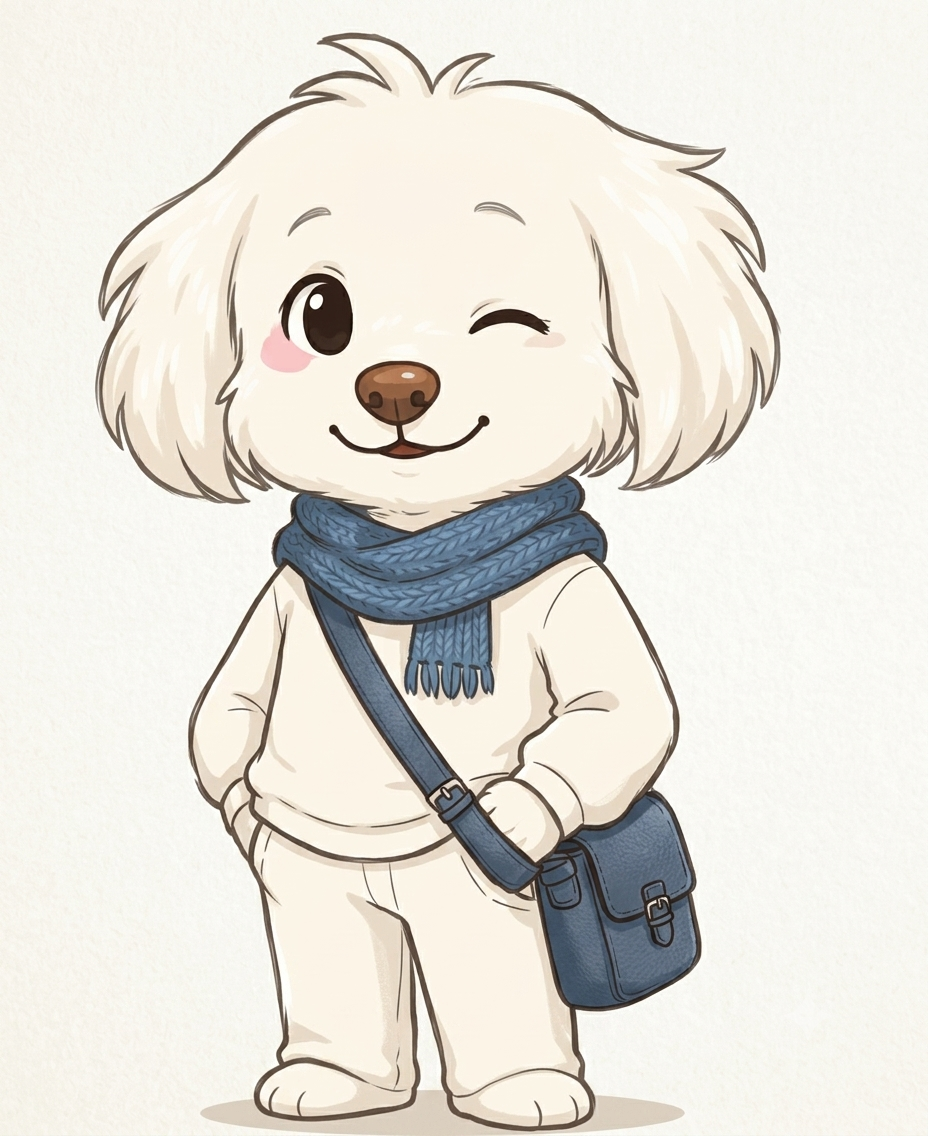
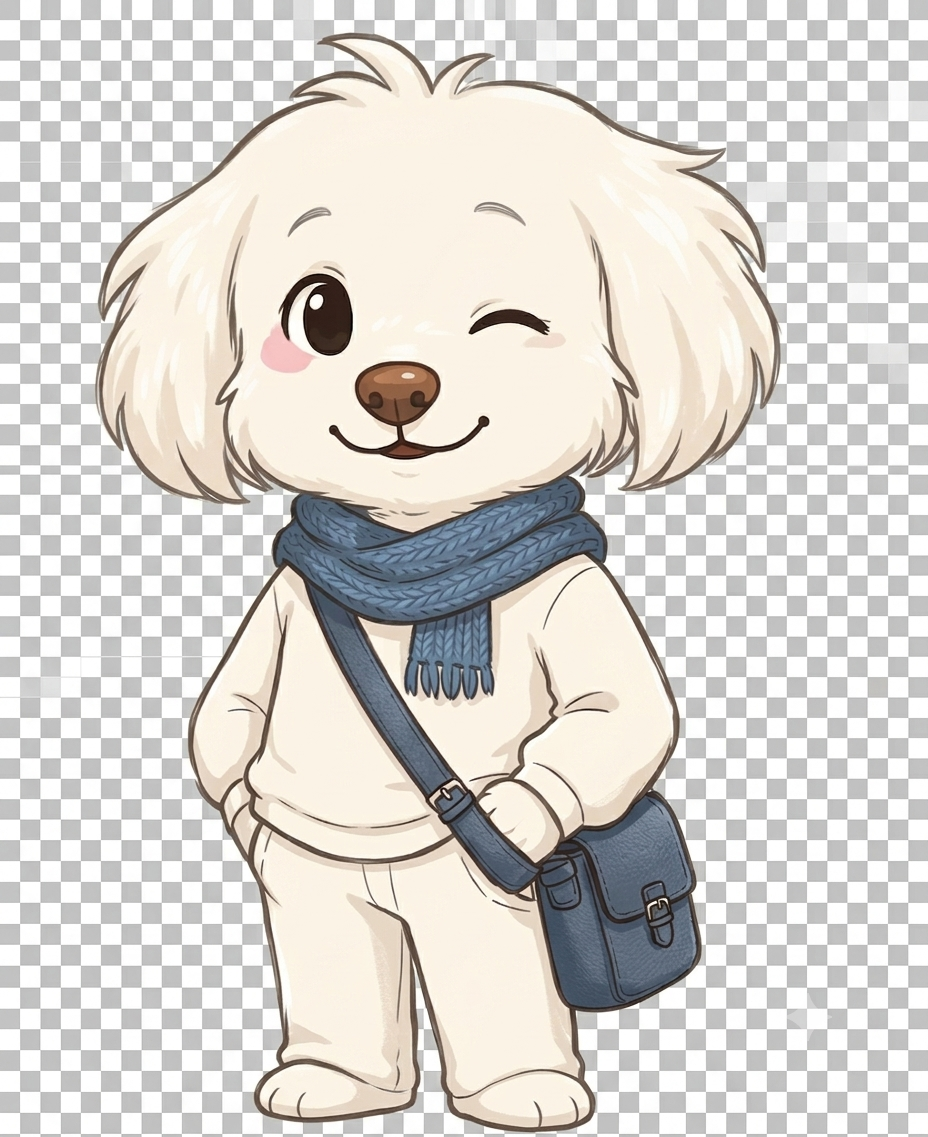
fix: mapa Chile completo con zonas posicionadas

Changed region(s): [[0.0, 0.0, 1.0, 1.0]]

diff --git a/frontend/src/App.jsx b/frontend/src/App.jsx
@@ -35,11 +35,11 @@ const ZONA_INFO = [
 ]
 
 const POSICIONES = [
-  { top: "11%", left: "50%" },
-  { top: "27%", left: "45%" },
-  { top: "44%", left: "47%" },
-  { top: "62%", left: "42%" },
-  { top: "79%", left: "38%" },
+  { top: "12%", left: "52%" },
+  { top: "29%", left: "47%" },
+  { top: "47%", left: "49%" },
+  { top: "64%", left: "44%" },
+  { top: "83%", left: "40%" },
 ]
 
 export default function App() {
@@ -141,30 +141,27 @@ export default function App() {
     const msg = zonaActualIdx >= 0 ? ZONA_INFO[zonaActualIdx].msg : "Completaste todo Chile!"
 
     return (
-      <div style={{
-        minHeight: "100vh",
-        backgroundImage: "url('/mapa-chile.png')",
-        backgroundSize: "cover",
-        backgroundPosition: "center top",
-        fontFamily: "system-ui,sans-serif",
-        position: "relative",
-        overflow: "hidden",
-      }}>
+      <div style={{ fontFamily:"system-ui,sans-serif", background:"#a8d4e6", minHeight:"100vh" }}>
 
-        <div style={{ position:"absolute", inset:0, background:"rgba(0,0,0,0.06)", pointerEvents:"none" }}/>
-
-        {/* Header */}
-        <div style={{ position:"relative", zIndex:20, textAlign:"center", padding:"22px 20px 6px" }}>
-          <h1 style={{ fontSize:34, fontWeight:900, color:"#1a3a1a", margin:0, textShadow:"0 1px 6px rgba(255,255,255,0.9)" }}>PreuSmart</h1>
-          <div style={{ display:"flex", justifyContent:"center", gap:6, marginTop:6 }}>
+        {/* Header fijo encima */}
+        <div style={{ position:"fixed", top:0, left:0, right:0, zIndex:50, background:"rgba(255,255,255,0.85)", backdropFilter:"blur(6px)", padding:"10px 20px", display:"flex", alignItems:"center", justifyContent:"space-between", boxShadow:"0 1px 8px rgba(0,0,0,0.1)" }}>
+          <h1 style={{ fontSize:22, fontWeight:900, color:"#1a3a1a", margin:0 }}>PreuSmart</h1>
+          <div style={{ display:"flex", gap:4 }}>
             {zonas.map((z,i) => (
-              <span key={i} style={{ fontSize:22, filter:z.completada?"none":"grayscale(1) opacity(0.4)" }}>⭐</span>
+              <span key={i} style={{ fontSize:18, filter:z.completada?"none":"grayscale(1) opacity(0.35)" }}>⭐</span>
             ))}
           </div>
         </div>
 
-        {/* Zona markers */}
-        <div style={{ position:"relative", height:"85vh", zIndex:10 }}>
+        {/* Mapa como imagen real — zonas posicionadas encima */}
+        <div style={{ position:"relative", marginTop:52 }}>
+          <img
+            src="/mapa-chile.png"
+            alt="Mapa de Chile"
+            style={{ width:"100%", display:"block" }}
+          />
+
+          {/* Zona markers sobre el mapa */}
           {zonas.map((zona, i) => {
             const esCurrent = zona.desbloqueada && !zona.completada
             const pos = POSICIONES[i]
@@ -176,35 +173,36 @@ export default function App() {
                   position:"absolute",
                   top: pos.top,
                   left: pos.left,
-                  transform: "translate(-50%, -50%)",
+                  transform:"translate(-50%, -50%)",
                   display:"flex",
                   flexDirection:"column",
                   alignItems:"center",
-                  gap:4,
+                  gap:3,
                   cursor: esCurrent ? "pointer" : "default",
                   zIndex:10,
                 }}
               >
                 <div style={{
-                  width: esCurrent ? 60 : 50,
-                  height: esCurrent ? 60 : 50,
+                  width: esCurrent ? 54 : 44,
+                  height: esCurrent ? 54 : 44,
                   borderRadius:"50%",
                   background: zona.completada ? "#4CAF50" : zona.desbloqueada ? "rgba(255,255,255,0.95)" : "rgba(255,255,255,0.45)",
-                  border: `3px solid ${esCurrent ? "#FFD700" : zona.completada ? "#2E7D32" : "rgba(80,80,80,0.35)"}`,
+                  border: `3px solid ${esCurrent ? "#FFD700" : zona.completada ? "#2E7D32" : "rgba(80,80,80,0.4)"}`,
                   display:"flex", alignItems:"center", justifyContent:"center",
-                  fontSize: esCurrent ? 26 : 22,
+                  fontSize: esCurrent ? 24 : 20,
                   boxShadow: esCurrent
-                    ? "0 0 0 6px rgba(255,215,0,0.35), 0 4px 14px rgba(0,0,0,0.25)"
-                    : "0 2px 8px rgba(0,0,0,0.2)",
+                    ? "0 0 0 5px rgba(255,215,0,0.4), 0 4px 12px rgba(0,0,0,0.3)"
+                    : "0 2px 6px rgba(0,0,0,0.25)",
                   transition:"all 0.2s",
                 }}>
                   {zona.completada ? "✅" : zona.desbloqueada ? zona.icono : "🔒"}
                 </div>
+
                 <div style={{
-                  background:"rgba(255,255,255,0.88)",
+                  background:"rgba(255,255,255,0.9)",
                   borderRadius:20,
-                  padding:"2px 10px",
-                  fontSize:11,
+                  padding:"2px 8px",
+                  fontSize:10,
                   fontWeight:700,
                   color:"#1a3a1a",
                   boxShadow:"0 1px 4px rgba(0,0,0,0.15)",
@@ -212,13 +210,14 @@ export default function App() {
                 }}>
                   {zona.nombre}
                 </div>
+
                 {esCurrent && (
                   <div style={{
                     background:"#4CAF50",
                     color:"#fff",
                     borderRadius:20,
-                    padding:"3px 12px",
-                    fontSize:11,
+                    padding:"2px 10px",
+                    fontSize:10,
                     fontWeight:700,
                     boxShadow:"0 2px 6px rgba(76,175,80,0.5)",
                   }}>
@@ -228,35 +227,32 @@ export default function App() {
               </div>
             )
           })}
-        </div>
 
-        {/* Rufi + burbuja */}
-        <div style={{
-          position:"fixed", bottom:0, left:0, right:0,
-          padding:"0 16px 8px",
-          display:"flex", alignItems:"flex-end",
-          pointerEvents:"none",
-          zIndex:30,
-        }}>
-          <div style={{ display:"flex", flexDirection:"column", alignItems:"flex-start", gap:6 }}>
+          {/* Rufi + burbuja sobre el mapa abajo */}
+          <div style={{
+            position:"absolute",
+            bottom:16,
+            left:12,
+            display:"flex",
+            flexDirection:"column",
+            alignItems:"flex-start",
+            gap:6,
+            zIndex:20,
+          }}>
             <div style={{
               background:"#fff",
               borderRadius:"16px 16px 16px 4px",
-              padding:"10px 14px",
+              padding:"8px 12px",
               boxShadow:"0 2px 14px rgba(0,0,0,0.18)",
-              maxWidth:210,
-              fontSize:13,
+              maxWidth:180,
+              fontSize:12,
               fontWeight:600,
               color:"#2C3E50",
               lineHeight:1.4,
             }}>
               {msg}
             </div>
-            <img
-              src="/mascota.png"
-              alt="Rufi"
-              style={{ width:130, height:130, objectFit:"contain" }}
-            />
+            <img src="/mascota.png" alt="Rufi" style={{ width:120, height:120, objectFit:"contain" }}/>
           </div>
         </div>
       </div>
@@ -275,7 +271,6 @@ export default function App() {
     return (
       <div style={{ minHeight:"100vh", background:"linear-gradient(180deg,#E8F5E9 0%,#F1F8E9 100%)", fontFamily:"system-ui,sans-serif", padding:"16px 16px 32px" }}>
         <div style={{ maxWidth:440, margin:"0 auto" }}>
-
           <div style={{ display:"flex", alignItems:"center", gap:10, marginBottom:20 }}>
             <button onClick={() => setPantalla("mapa")} style={{ background:"#fff", border:"none", borderRadius:10, padding:"8px 14px", cursor:"pointer", fontSize:18, boxShadow:"0 2px 6px rgba(0,0,0,0.1)" }}>←</button>
             <div style={{ flex:1 }}>
